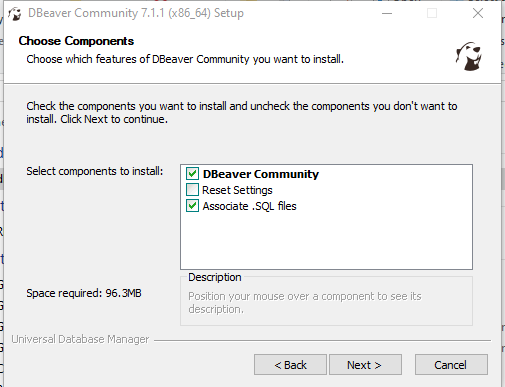
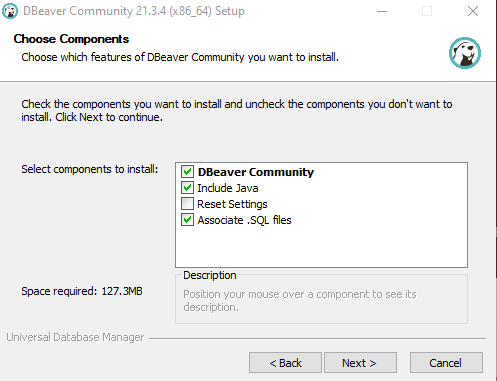
update DBeaver installation instructions

diff --git a/README.md b/README.md
@@ -364,7 +364,7 @@ Hit "Next" until you get to the "Select Components" menu. Here, you'll want to s
 
 Continue to hit "Next" until you reach the "Password" menu. Here you will be tasked with providing a password for the default Postgres user (which is "postgres"). The password is completely up to you. **DO NOT forget your password as you won't be able to login to your database as the superuser. If you have to, write your password down somewhere or use a password manager.**
 
-#### ❗ ❗ DO NOT FORGET YOUR POSTGRES PASSWORD ❗ ❗
+## ❗ ❗ DO NOT FORGET YOUR POSTGRES PASSWORD ❗ ❗
 
 ![Postgres Password](./images/postgres-password.PNG)
 
@@ -382,9 +382,9 @@ Once you navigate to the website, you should see the following:
 
 ![DBeaver Home](./images/dbeaver-home.PNG)
 
-You'll notice that there are two options: Community Edition and Enterprise Edition. Please select the **Community Edition** as it is free. Do NOT select the Enterprise as it is not free.
+Once you click it, you'll notice that there are two options: Community Edition and Enterprise Edition. Please select the **Community Edition** as it is free. Do NOT select the Enterprise Edition.
 
-You will find the installers for the Community Edition if you scroll down the page. They should be located directly beneath the the box which says "Community Edition 7.1.1". As with all other software listed here, please make sure that you choose the correct installer for your system.
+You will find the installers for the Community Edition if you scroll down the page. They should be located directly beneath the the box which says "Community Edition 21.X.X". As with all other software listed here, please make sure that you choose the correct installer for your system. If you're on Windows, you'll most likely click **Windows 64 bit installer**.
 
 Once you've clicked on the installer that is compatible with your system, you'll be prompted to save the file. Save it and note where you've saved it on your machine. These files are usually stored in your computer's "Downloads" folder by default.
 
@@ -394,13 +394,15 @@ Now navigate to the folder where the installer is stored. For this example, we'v
 
 ![Installer In Downloads Folder](./images/dbeaver-download.PNG)
 
-Double click the installer. Once you've done so, the installer will be launched. The installer should take you through the process of setting up DBeaver. You'll be asked, for instance, to select a language of choice and review license terms before you install the software.
+Double click the installer. Once you've done so, the installer will be launched. The installer should take you through the process of setting up DBeaver. You'll be asked, for instance, to select a language of choice and review license terms before you install the software. 
 
-![DBeaver License Agreement](./images/dbeaver-license.PNG)
+**When you're prompted to "Choose Users", you may select "For me (...)".**
 
-When you arrive at the portion of the setup which is titled "Choose Components", please select "DBeaver Community" and "Associate .SQL files".
+When you arrive at the portion of the setup which is titled "Choose Components", please select "DBeaver Community", **"Inlcude Java**, and "Associate .SQL files".
 
 ![DBeaver Components](./images/dbeaver-components.PNG)
+
+Click next, then click "Install", then click "Finish".
 
 If your installation was successful, you should now be able to search for and find "DBeaver" using your computer's search bar.
 
